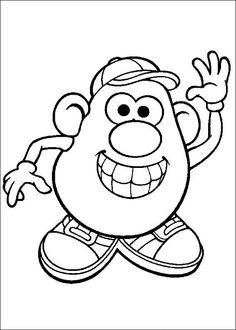
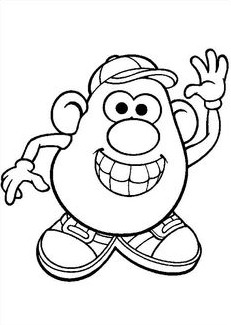
Adding transparent images

Changed region(s): [[0.0, 0.0, 1.0, 1.0]]

diff --git a/modelData/bedtimeApp.js b/modelData/bedtimeApp.js
@@ -18,31 +18,31 @@
  */
 (function() {
    // Create initial activities.
-   var activity1 = {liked: false, name: 'Coloring', rating: 3.0, description:'',link:'',file_name: 'drawing.JPG', activity_level: 'low', tag: 'creative', duration: 15, id: 1};
-   var activity2 = {liked: false, name: 'Building something', rating: 3.0, description: 'Build something using legos, blocks, Shopkins, creative train sets ,spaghetti, marshmallows, popsicle sticks, cards, or whatever you have around.', link:'', file_name: 'building_blocks.JPG', activity_level: 'low', tag: 'creative', duration: 30, id: 2};
-   var activity3 = {liked: false, name: 'Photo storytelling', rating: 3.0, description: '', link:'',file_name: 'photo_storytelling.JPG', activity_level: 'low', tag: 'creative', duration: 15, id: 3};
+   var activity1 = {liked: false, name: 'Coloring', rating: 3.0, description:'',link:'',file_name: 'drawing_transparent.png', activity_level: 'low', tag: 'creative', duration: 15, id: 1};
+   var activity2 = {liked: false, name: 'Building something', rating: 3.0, description: 'Build something using legos, blocks, Shopkins, creative train sets ,spaghetti, marshmallows, popsicle sticks, cards, or whatever you have around.', link:'', file_name: 'building_blocks_transparent.png', activity_level: 'low', tag: 'creative', duration: 30, id: 2};
+   var activity3 = {liked: false, name: 'Photo storytelling', rating: 3.0, description: '', link:'',file_name: 'photo_storytelling_transparent.png', activity_level: 'low', tag: 'creative', duration: 15, id: 3};
    var activity4 = {liked: false, name: 'The listening game', rating: 3.0, description: 'Take out several miscellaneous items. Have the children look at all the items, and then take them away. Next, ask one child to hide his or her eyes and listen as you pick up an item and make sounds with it. Ask the child to guess which item made the sound. Examples of items might be a comb (run your fingers along it), a glass (gently tap it), cymbals, shakers, sandpaper, blocks rubbed together, a pot and spoon. Be creative and have fun!',link:'',file_name: 'listening.jpg', activity_level: 'low', tag: 'creative', duration: 30, id: 4};
-   var activity5 = {liked: true, name: 'Shadow Puppets', rating: 3.0, description: 'Learn how to use your hands and a light source to create shadow puppets', link:'https://www.youtube.com/watch?v=Kz8wP2RYy64',file_name: 'shadow_puppets.JPG', activity_level: 'low', tag: 'creative', duration: 30, id: 5};
+   var activity5 = {liked: true, name: 'Shadow Puppets', rating: 3.0, description: 'Learn how to use your hands and a light source to create shadow puppets', link:'https://www.youtube.com/watch?v=Kz8wP2RYy64',file_name: 'shadow_puppets_transparent.png', activity_level: 'low', tag: 'creative', duration: 30, id: 5};
    var activity6 = {liked: false, name: 'Board Games', rating: 3.0,description: 'Scrabble,The Game of Life,Chutes and Ladders, more', link:'http://fun.familyeducation.com/slideshow/board-games/48954.html',file_name: 'board.jpg', activity_level: 'low', tag: 'educational', duration: 30, id: 6};
    var activity7 = {liked: false, name: 'Card Games', rating: 3.0, description: 'Uno, Monopoly Junior, Exploding Kittens, more', link: 'http://www.netmums.com/activities/free-family-fun/easy-card-games',file_name: 'card.jpg', activity_level: 'low', tag: 'educational', duration: 30, id: 7};
    var activity8 = {liked: false, name: 'Brain Teasers', rating: 3.0, description: 'Find brain teasers for kids', link:'http://www.everythingmom.com/parenting/45-riddles-and-brain-teasers-for-kids',file_name: 'brain.jpg', activity_level: 'low', tag: 'educational', duration: 30, id: 8};
-   var activity9 = {liked: false, name: 'Tickle Monster', rating: 3.0, description: '', link: '', file_name: 'tickle_monster.JPG', activity_level: 'high', tag: 'funny', duration: 15, id: 9};
-   var activity10 = {liked: false, name: 'Pillow Fight', rating: 3.0, description: '', link: '', file_name: 'pillow_fight.JPG', activity_level: 'high', tag: 'funny', duration: 15, id: 10};
+   var activity9 = {liked: false, name: 'Tickle Monster', rating: 3.0, description: '', link: '', file_name: 'tickle_monster_transparent.png', activity_level: 'high', tag: 'funny', duration: 15, id: 9};
+   var activity10 = {liked: false, name: 'Pillow Fight', rating: 3.0, description: '', link: '', file_name: 'pillow_fight_transparent.png', activity_level: 'high', tag: 'funny', duration: 15, id: 10};
    var activity11 = {liked: false, name: 'Furniture Hot Lava Monster',description:'Imagine that the floor is made of hot lava. Move from one piece of furniture to the next without falling to the ground. You will be out of the game if you touch the floor.',link:'', rating: 3.0, file_name: 'Hot_Lava.jpg', activity_level: 'high', tag: 'funny', duration: 15, id: 11};
    var activity12 = {liked: false, name: 'Hot Potato', description:' Ask the kids to sit on the floor in a circle. Turn on some tunes and have them pass the potato (a bean bag or soft ball) around the circle as fast as they can. When the music stops, the player holding the potato leaves the circle. Keep going until only one player is left and wins the game.', link:'', rating: 3.0, file_name: 'potato.jpg', activity_level: 'low', tag: 'funny', duration: 15, id: 12};
-   var activity13 = {liked: false, name: 'Dance Party', rating: 3.0, description:'',link:'',file_name: 'dance_party.JPG', activity_level: 'high', tag: 'musical', duration: 30, id: 13};
+   var activity13 = {liked: false, name: 'Dance Party', rating: 3.0, description:'',link:'',file_name: 'dance_party_transparent.png', activity_level: 'high', tag: 'musical', duration: 30, id: 13};
    var activity14 = {liked: false, name: 'Freeze!', rating: 3.0, description:'Choose some of your kids’ favourite tunes and turn up the volume. Ask them to dance until the music stops. When it does, they have to freeze in whatever position they find themselves in – even if they have one leg up. To make the game more challenging, ask the kids to freeze in specific poses: animals, shapes, letters or even yoga postures.',link:'', file_name: 'freeze.jpg', activity_level: 'high', tag: 'musical', duration: 15, id: 14};
-   var activity15 = {liked: false, name: 'Singing songs', rating: 3.0, description: '', link: '',file_name: 'singing.JPG', activity_level: 'low', tag: 'musical', duration: 15, id: 15};
-   var activity16 = {liked: false, name: 'Stargazing', rating: 3.0, description: 'Learn how to stargazing', link: 'http://www.skyandtelescope.com/astronomy-resources/stargazing-basics/family-projects-and-experiments/',file_name: 'stargazing.JPG', activity_level: 'low', tag: 'outdoors', duration: 30, id: 16};
-   var activity17 = {liked: true, name: 'A night walk', description:'',link:'',rating: 3.0, file_name: 'night_walk.JPG', activity_level: 'high', tag: 'outdoors', duration: 30, id: 17};
-   var activity18 = {liked: false, name: 'Hide & Seek', description:'One player closes his or her eyes for a brief period (often counting to 100) while the other players hide. The seeker then opens his eyes and tries to find the hiders; the first one found is the next seeker, and the last is the winner of the round.',link:'',rating: 3.0, file_name: 'hide_and_seek.JPG', activity_level: 'low', tag: 'physical', duration: 30, id: 18};
+   var activity15 = {liked: false, name: 'Singing songs', rating: 3.0, description: '', link: '',file_name: 'singing_transparent.png', activity_level: 'low', tag: 'musical', duration: 15, id: 15};
+   var activity16 = {liked: false, name: 'Stargazing', rating: 3.0, description: 'Learn how to stargazing', link: 'http://www.skyandtelescope.com/astronomy-resources/stargazing-basics/family-projects-and-experiments/',file_name: 'stargazing_transparent.png', activity_level: 'low', tag: 'outdoors', duration: 30, id: 16};
+   var activity17 = {liked: true, name: 'A night walk', description:'',link:'',rating: 3.0, file_name: 'night_walk_transparent.png', activity_level: 'high', tag: 'outdoors', duration: 30, id: 17};
+   var activity18 = {liked: false, name: 'Hide & Seek', description:'One player closes his or her eyes for a brief period (often counting to 100) while the other players hide. The seeker then opens his eyes and tries to find the hiders; the first one found is the next seeker, and the last is the winner of the round.',link:'',rating: 3.0, file_name: 'hide_and_seek_transparent.png', activity_level: 'low', tag: 'physical', duration: 30, id: 18};
    var activity19 = {liked: false, name: 'Family \"workout\"', description:'Learn how to workout with your kids',link:'http://www.huffingtonpost.com/2014/08/05/mom-exercises-with-kids-lauren-rodgers_n_5648970.html',rating: 3.0, file_name: 'work_out.jpg', activity_level: 'high', tag: 'physical', duration: 15, id: 19};
-   var activity20 = {liked: false, name: 'Yoga/stretching', description:'Learn yoga poses for kids ',link:'http://www.parents.com/fun/activities/indoor/yoga-for-kids/#page=1',rating: 3.0, file_name: 'yoga.JPG', activity_level: 'low', tag: 'physical', duration: 15, id: 20};
+   var activity20 = {liked: false, name: 'Yoga/stretching', description:'Learn yoga poses for kids ',link:'http://www.parents.com/fun/activities/indoor/yoga-for-kids/#page=1',rating: 3.0, file_name: 'yoga_transparent.png', activity_level: 'low', tag: 'physical', duration: 15, id: 20};
    var activity21 = {liked: false, name: 'a DIY balance beam', description:'We all know how much kids love walking in straight lines every chance they get. Put on some music, and one at a time the kids can take their turn walking one-foot-over-the-other across the straight line of tape. Make the game more challenging by having the kids walk backwards or balance with one foot on the line.',link:'',rating: 3.0, file_name: 'Balance_Beam.png', activity_level: 'low', tag: 'physical', duration: 15, id: 21};
    var activity22 = {liked: false, name: 'Gymnastics', description:'',link:'',rating: 3.0, file_name: 'gymnastics.png', activity_level: 'high', tag: 'physical', duration: 15, id: 22};
    var activity23 = {liked: false, name: 'Indoor hopscotch', description:' Boxes 1-3 will be placed in a single line, one on top of the other. The next two boxes (4, 5) will be placed side-by-side, followed by a single box (6), two more boxes (7, 8) and the final half-circle “home” base (9). Next, choose a marker, such as a coin, stone or beanbag. The first player will throw the marker into square 1 without letting it bounce or touch the lines. If successful, the player will then hop — one foot on single squares and two feet on side-by-side squares — avoiding square #1. The player may rest on “home” before hopping back. On the way back, he or she picks up the marker on square #1 and, if successful (lands within the lines, hops or jumps with proper footing, doesn’t fall), takes another turn and throws it into square #2. When the player is unsuccessful, the next player takes a turn. Players resume their turns by throwing the marker on the last box played. The winner is the first player to throw the marker home (#9), and smoothly complete the whole course.',link:'',rating: 3.0, file_name: 'hopscotch.png', activity_level: 'high', tag: 'physical', duration: 15, id: 23};
-   var activity24 = {liked: true, name: 'Building a Blanket Fort', description:'More ideas ',link:'http://www.todaysparent.com/family/activities/9-creative-indoor-forts/',rating: 3.0, file_name: 'blanket_fort.jpg', activity_level: 'low', tag: 'teamwork-related', duration: 30, id: 24};
-   var activity25 = {liked: false, name: 'Flashlight tag',description:'Learn how to play flashlight tag ',link:'http://www.wikihow.com/Play-Flashlight-Tag', rating: 3.0, file_name: 'flashlight_tag.JPG', activity_level: 'high', tag: 'teamwork-related', duration: 15, id: 25};
+   var activity24 = {liked: true, name: 'Building a Blanket Fort', description:'More ideas ',link:'http://www.todaysparent.com/family/activities/9-creative-indoor-forts/',rating: 3.0, file_name: 'blanket_fort_transparent.png', activity_level: 'low', tag: 'teamwork-related', duration: 30, id: 24};
+   var activity25 = {liked: false, name: 'Flashlight tag',description:'Learn how to play flashlight tag ',link:'http://www.wikihow.com/Play-Flashlight-Tag', rating: 3.0, file_name: 'flashlight_tag_transparent.png', activity_level: 'high', tag: 'teamwork-related', duration: 15, id: 25};
    var activity26 = {liked: false, name: 'Puzzles', description:'Jigsaw puzzles, Tangram, Spot the Difference, Maze...',link:'',rating: 3.0, file_name: 'puzzle.jpg', activity_level: 'low', tag: 'teamwork-related', duration: 30, id: 26};
    var activity27 = {liked: false, name: 'A treasure hunt', description:'Lace the first clue somewhere easy to find, like inside your child’s snack or cereal bowl. Then leave as many clues as you like around the house, making a trail to the final clue. Instead of a prize, the treasure hunt can lead to various coins around the house. This way the kids get to collect all the coins and put them in their piggy banks in the end. If you want to create the most amazing treasure hunt, follow ',link:'http://www.todaysparent.com/family/activities/tips-for-creating-an-awesome-treasure-hunt/',rating: 3.0, file_name: 'treasure_hunt.jpg', activity_level: 'low', tag: 'teamwork-related', duration: 30, id: 27};
 
